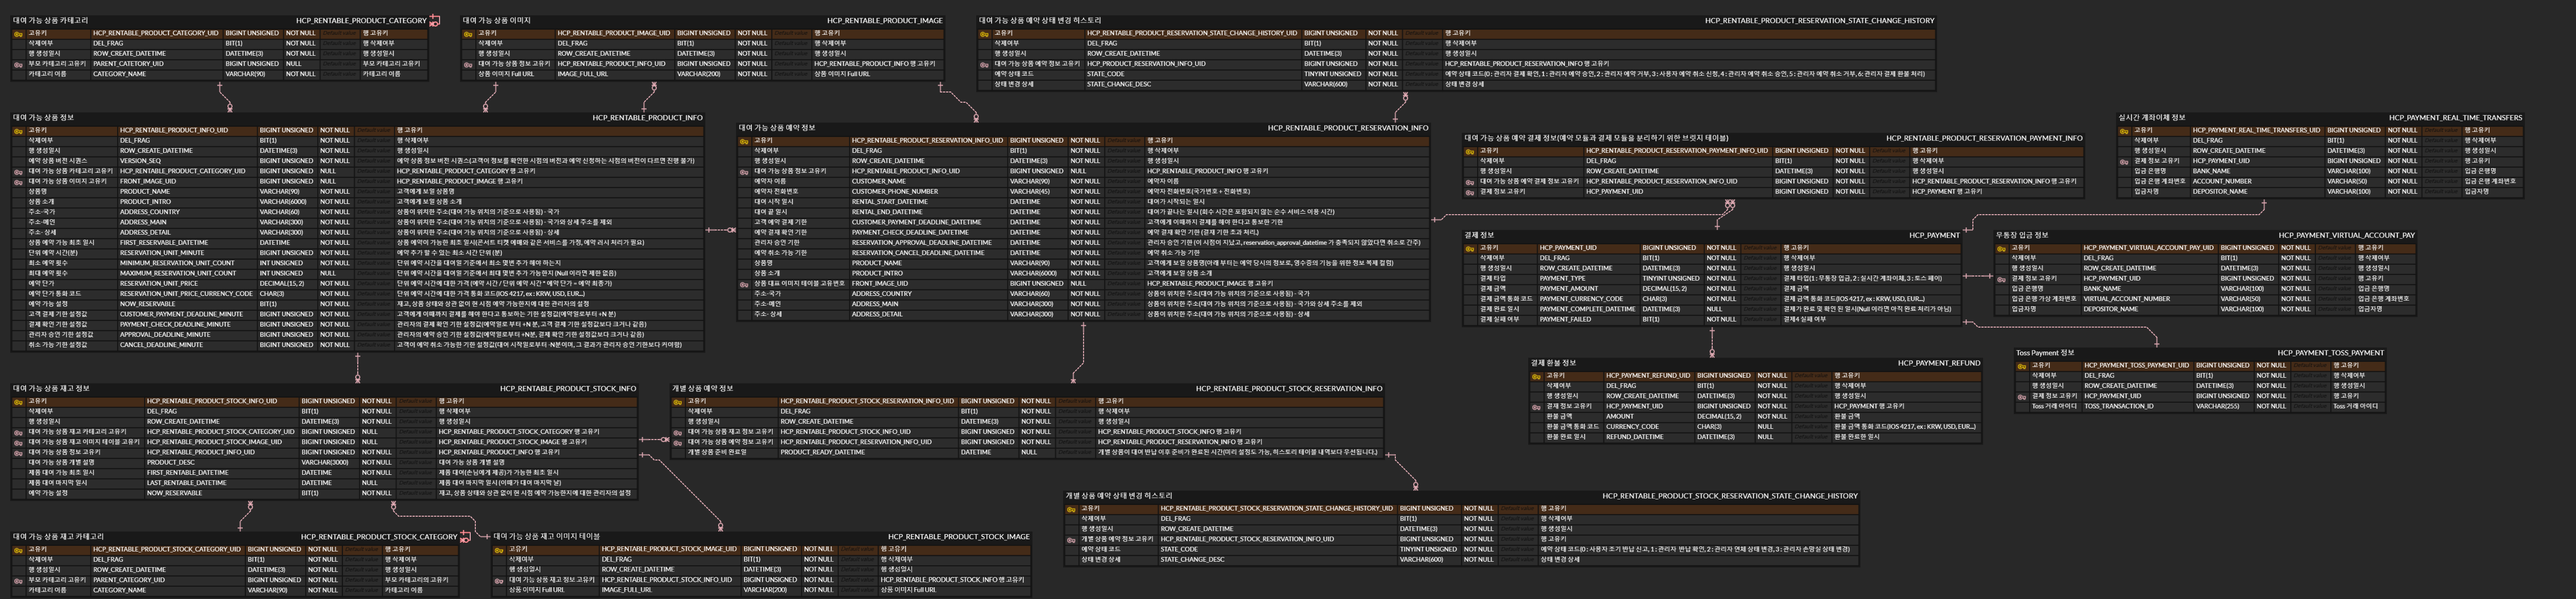
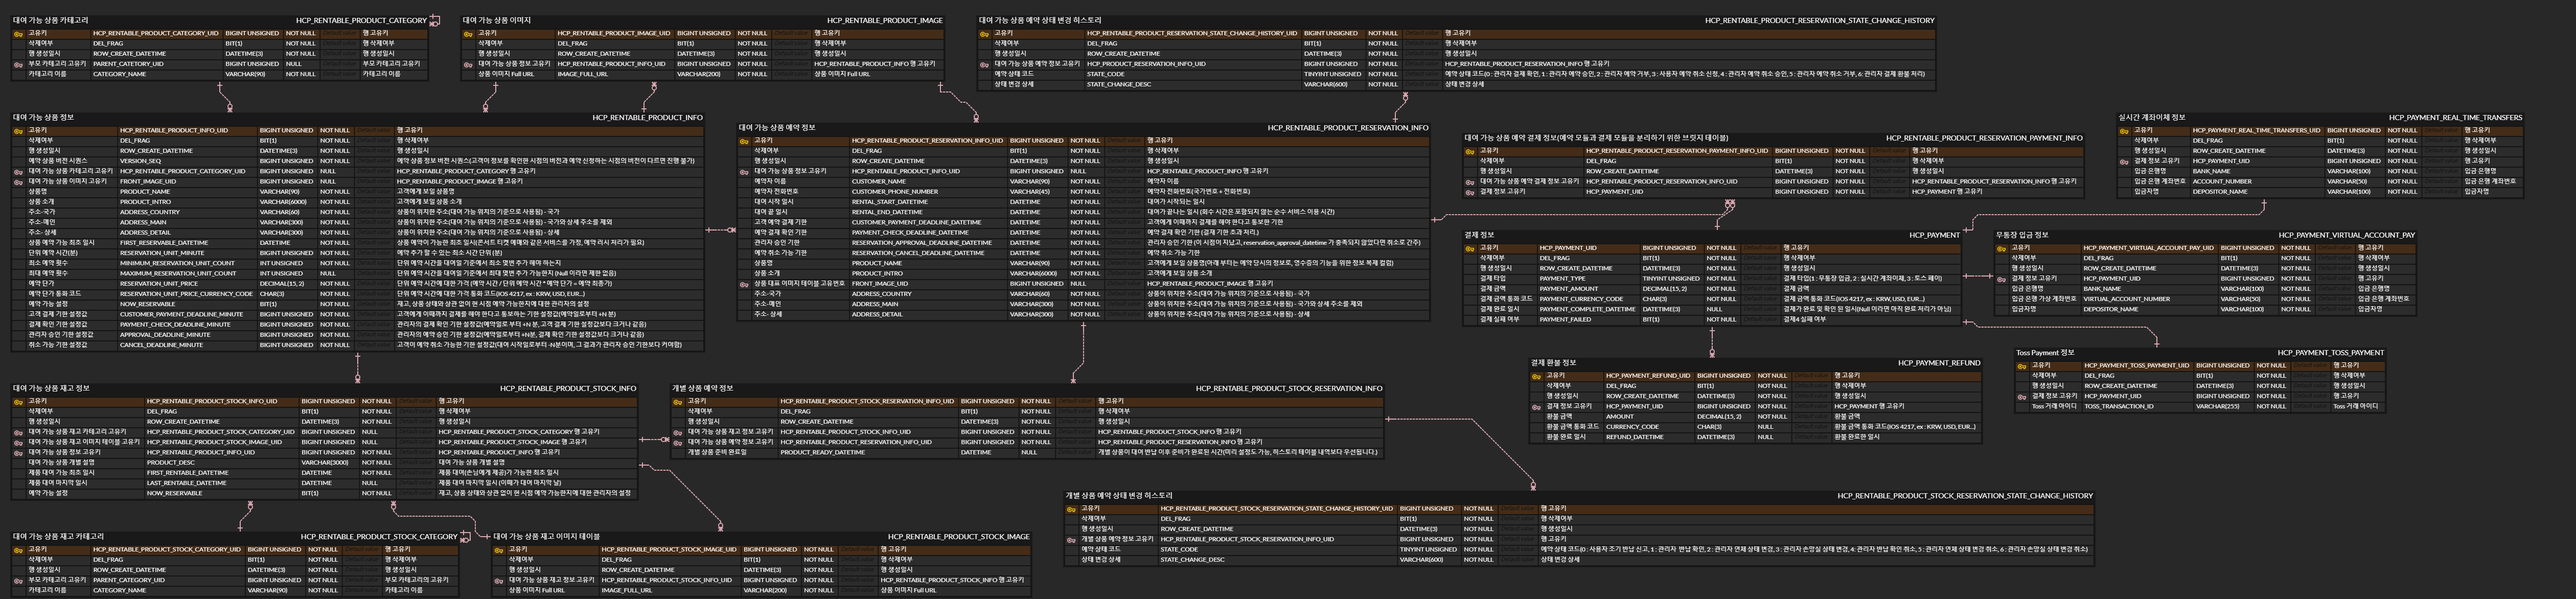
docs : 예약 시스템 관련 자료 수정

diff --git a/module-service-rental-reservation/src/main/kotlin/com/raillylinker/module_service_rental_reservation/jpa_beans/db1_main/entities/Db1_RaillyLinkerCompany_RentableProductStockReservationStateChangeHistory.kt b/module-service-rental-reservation/src/main/kotlin/com/raillylinker/module_service_rental_reservation/jpa_beans/db1_main/entities/Db1_RaillyLinkerCompany_RentableProductStockReservationStateChangeHistory.kt
@@ -23,7 +23,7 @@ class Db1_RaillyLinkerCompany_RentableProductStockReservationStateChangeHistory(
     var rentableProductStockReservationInfo: Db1_RaillyLinkerCompany_RentableProductStockReservationInfo,
 
     @Column(name = "state_code", nullable = false, columnDefinition = "TINYINT UNSIGNED")
-    @Comment("예약 상태 코드(0 : 사용자 조기 반납 신고, 1 : 관리자 반납 확인, 2 : 관리자 연체 상태 변경, 3 : 관리자 손망실 상태 변경)")
+    @Comment("예약 상태 코드(0 : 사용자 조기 반납 신고, 1 : 관리자  반납 확인, 2 : 관리자 연체 상태 변경, 3 : 관리자 손망실 상태 변경, 4: 관리자 반납 확인 취소, 5 : 관리자 연체 상태 변경 취소, 6 : 관리자 손망실 상태 변경 취소)")
     var stateCode: Short,
 
     @Column(name = "state_change_desc", nullable = false, columnDefinition = "VARCHAR(600)")
